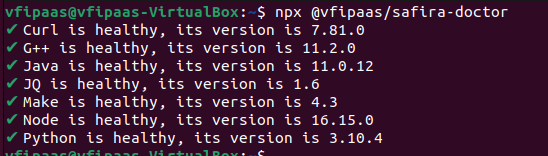
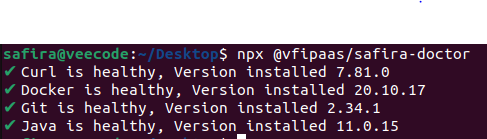
[DOCS] Atualização instalação através do binário

diff --git a/docs/installation/dependencies.md b/docs/installation/dependencies.md
@@ -10,25 +10,11 @@ Exemplo de instalação no Debian/Ubuntu.
 
   - **[docker](https://docs.docker.com/engine/install/)**
 
-  - **[node_gyp](https://www.npmjs.com/package/node-gyp)**
-
-  - **[python_v3.6+](https://www.python.org/downloads/)**
-
-  - **[nodejs14+](https://nodejs.org/en/download/)**
-
-  - **[make](https://www.gnu.org/software/make/)**
-  
-  - **[cmake](https://cmake.org/download/)**
-
-  - **[g++](http://www.qnx.com/developers/docs/6.5.0SP1.update/com.qnx.doc.neutrino_utilities/g/gxx.html)**
-
-  - **[jq](https://stedolan.github.io/jq/download/)**
-
   - **[curl](https://curl.se/download.html)**
 
   - **[java8+](https://www.java.com/pt-BR/download/manual.jsp)**
 
-  - **[maven](https://maven.apache.org/download.cgi)**
+  - **[git](https://maven.apache.org/download.cgi)**
 
 ### Utilize o safira-doctor para verificar se os pré-requisitos estão instalados
 ```sh
@@ -67,14 +53,6 @@ sudo usermod -aG docker $USER && \
 newgrp docker
 ```
 
-### Instalando NodeJS 16 usando nvm
-[Mais sobre o nvm](https://github.com/nvm-sh/nvm)
-```bash
-curl -o- https://raw.githubusercontent.com/nvm-sh/nvm/v0.39.1/install.sh | bash
-source ~/.bashrc
-nvm install 16
-```
-
 ### Instalando Java usando o SdkMan
 [Mais sobre o SdkMan](https://sdkman.io/)
 ```bash
@@ -87,5 +65,5 @@ sdk install java 11.0.12-open
 ### Instalando demais dependências
 ```bash
 sudo apt update
-sudo apt install node-gyp make cmake g++ jq curl maven
+sudo apt install curl 
 ```

diff --git a/docs/installation/safira-cli.md b/docs/installation/safira-cli.md
@@ -8,6 +8,9 @@ title: Safira CLI
 ## Instalação Safira-CLI
 O comando irá instalar o **safira-cli** no seu sistema:
 
+
 ```bash
 curl https://vfipaas.github.io/safira-support/install.sh -sSfL | bash
 ```
+
+![safira-installation](/img/tutorial/safira-instalation.gif)

diff --git a/docs/tutorials/primeiro-projeto-springboot.md b/docs/tutorials/primeiro-projeto-springboot.md
@@ -1,5 +1,5 @@
 ---
-sidebar_position: 1
+sidebar_position: 6
 sidebar_label: Primeiro Projeto com Safira em Spring-boot
 title: Hello World
 ---

diff --git a/docs/tutorials/primeiro-projeto-quarkus.md b/docs/tutorials/primeiro-projeto-quarkus.md
@@ -1,5 +1,5 @@
 ---
-sidebar_position: 2
+sidebar_position: 5
 sidebar_label: Primeiro Projeto com Safira em Quarkus
 title: Hello World
 ---

diff --git a/docs/tutorials/devportal.md b/docs/tutorials/devportal.md
@@ -1,5 +1,5 @@
 ---
-sidebar_position: 2
+sidebar_position: 1
 sidebar_label: Conhecendo o Devportal
 title: Devportal
 ---

diff --git a/docs/tutorials/project-new-springboot.md b/docs/tutorials/project-new-springboot.md
@@ -1,5 +1,5 @@
 ---
-sidebar_position: 3
+sidebar_position: 9
 sidebar_label: Gerando Projeto Spring-boot 
 ---
 
